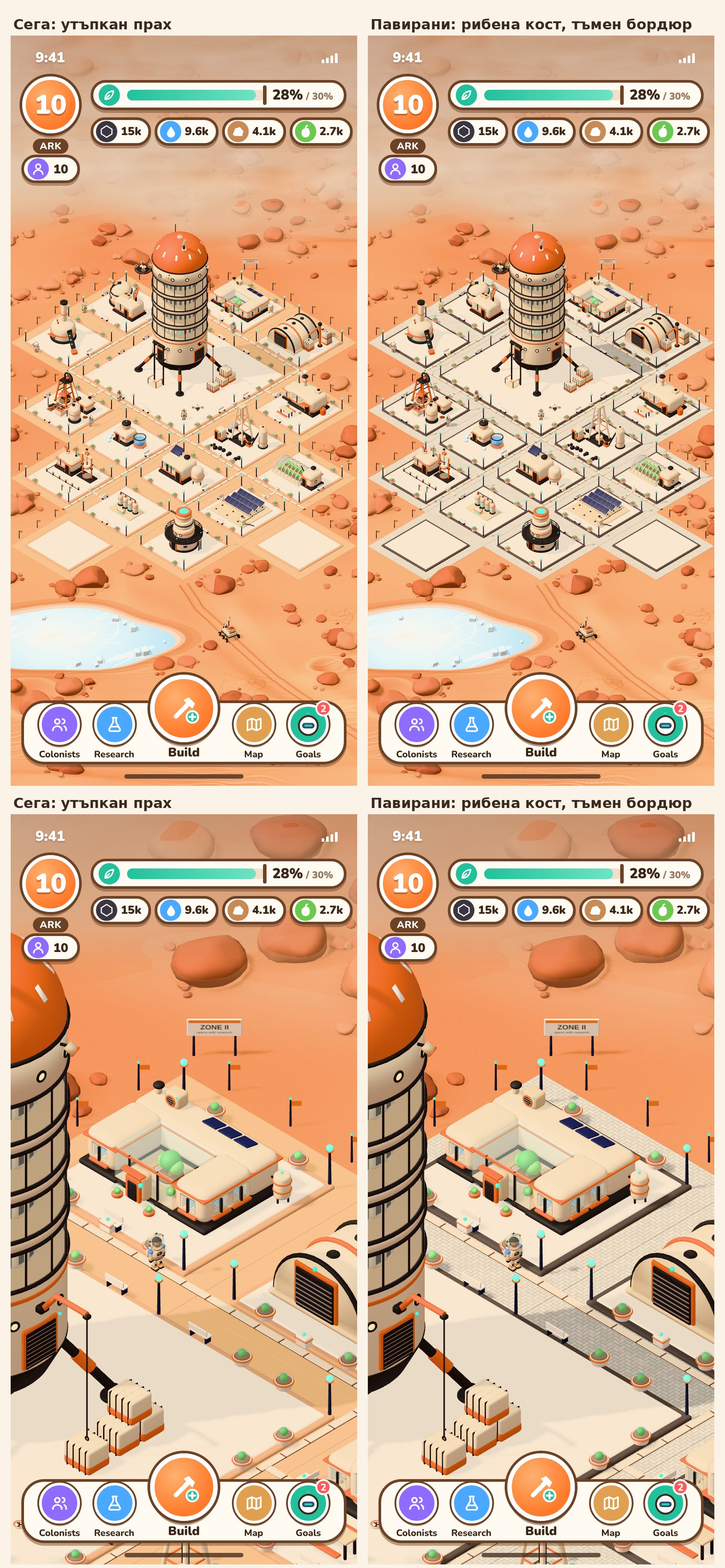
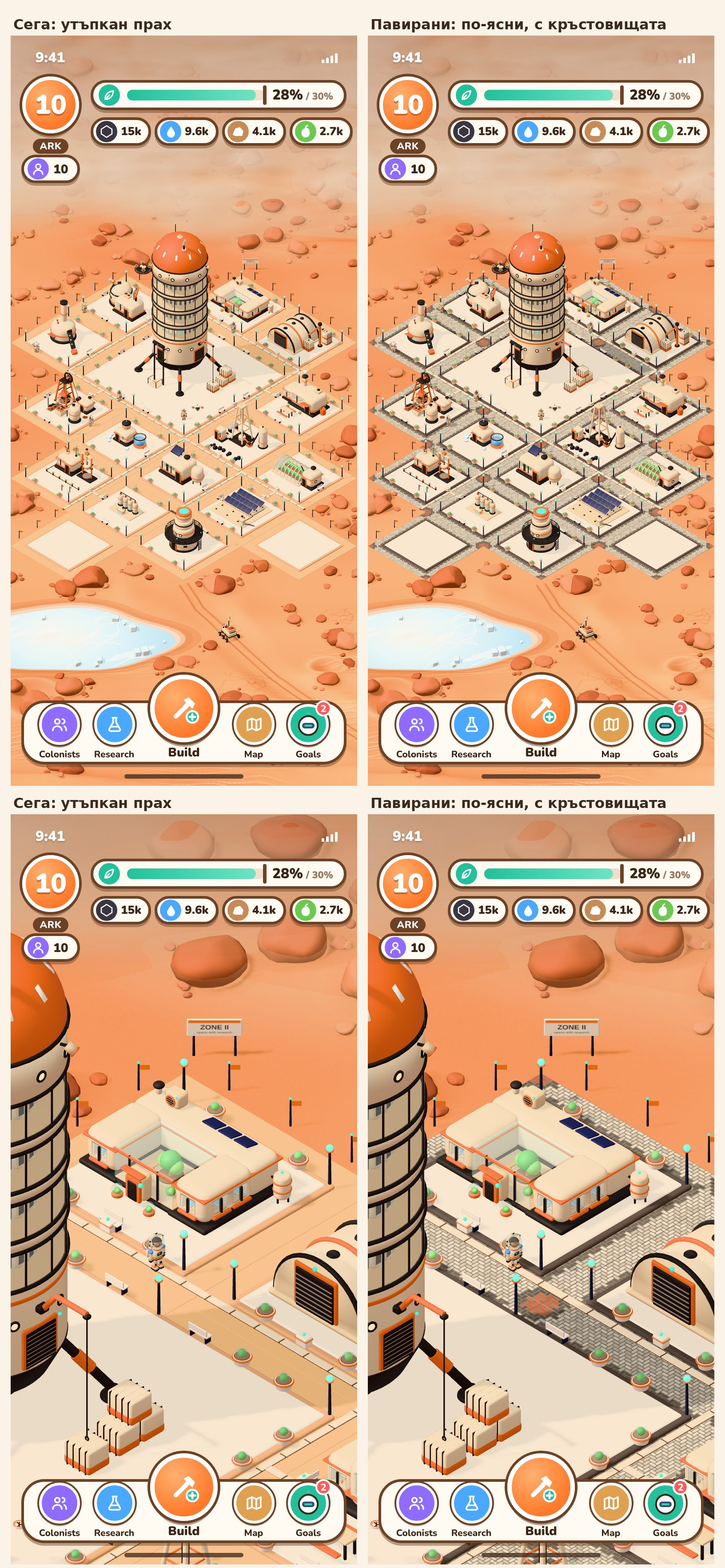
Paved streets read from far away (Joro): one texture a block with two warm greys over dark joints, a band of darker pavers along the kerb, a dark ring round brick pavers at the crossings (proposal); the before/after sheet and the frames shot again
Claude-Session: https://claude.ai/code/session_01HQgMkkwda3RCHN2yi9QPF3

diff --git a/mockup/src/map.js b/mockup/src/map.js
@@ -177,22 +177,32 @@ const ARK_PLOTS = new Set(['0,-2', '-1,-1', '1,-1', '0,0']), ARK_AT = [-8, -8], 
 // with its own little random generator, so the rocks of the map stay where they are.
 const PAVED = (location.hash || '').includes('-paved');
 function pavedMat() {
-  const c = document.createElement('canvas'); c.width = c.height = 512; const g = c.getContext('2d');
-  g.fillStyle = '#9d968a'; g.fillRect(0, 0, 512, 512);
+  // one texture for a whole block of 16 m (64 px a metre): herringbone pavers in two warm greys over dark joints, a band
+  // of darker pavers along the kerb on both sides of every street, and at the crossings (the corners of four blocks)
+  // a ring of dark pavers round a circle of brick pavers from our kiln (proposal), so the paving reads from far away
+  const S = 1024, PX = S / 16, c = document.createElement('canvas'); c.width = c.height = S; const g = c.getContext('2d');
+  g.fillStyle = '#7f786d'; g.fillRect(0, 0, S, S);
   let seed = 9; const lcg = () => ((seed = (seed * 16807) % 2147483647) / 2147483647);
-  const wd = 32, gap = 2;
-  const box = (x, y, w, h) => {
-    const t = Math.round((lcg() - 0.5) * 14);
-    g.fillStyle = `rgb(${207 + t},${200 + t},${188 + t})`;
-    for (const ox of [-512, 0, 512]) for (const oy of [-512, 0, 512]) g.fillRect(x + ox + gap, y + oy + gap, w - 2 * gap, h - 2 * gap);
+  const tone = (r, gg, b, v) => { const t = Math.round((lcg() - 0.5) * v); return `rgb(${r + t},${gg + t},${b + t})`; };
+  const wd = 16, gap = 2;
+  const col = (x, y) => {
+    const mx = (x - S / 2) / PX, my = (y - S / 2) / PX;                     // metres from the middle of the block
+    const rc = Math.hypot(Math.abs(mx) - 8, Math.abs(my) - 8);                // to the nearest crossing
+    if (rc < 1.0) return tone(178, 96, 70, 16);                              // brick pavers in the middle of the crossing
+    if (rc < 1.55) return tone(96, 89, 80, 10);                              // the dark ring round it
+    const cheb = Math.max(Math.abs(mx), Math.abs(my));
+    if (cheb > 6.15 && cheb < 6.75) return tone(104, 97, 88, 10);            // the band along the kerb
+    if (cheb > 9.25) return tone(104, 97, 88, 10);                           // (the next block's band)
+    return lcg() < 0.5 ? tone(205, 197, 183, 10) : tone(184, 176, 162, 10);   // the field: two warm greys
   };
-  for (let i = -24; i <= 24; i++) for (let j = -12; j <= 12; j++) {
+  for (let i = -80; i <= 80; i++) for (let j = -40; j <= 40; j++) {
     const bx = (i + 2 * j) * wd, by = (i - 2 * j) * wd;
-    if (bx < -64 || bx > 576 || by < -64 || by > 576) continue;
-    box(bx, by, 2 * wd, wd); box(bx, by + wd, wd, 2 * wd);
+    if (bx < -48 || bx > S + 16 || by < -48 || by > S + 16) continue;
+    for (const [x, y, w, h] of [[bx, by, 2 * wd, wd], [bx, by + wd, wd, 2 * wd]]) {
+      g.fillStyle = col(x + w / 2, y + h / 2); g.fillRect(x + gap, y + gap, w - 2 * gap, h - 2 * gap);
+    }
   }
-  const t = new THREE.CanvasTexture(c); t.wrapS = t.wrapT = THREE.RepeatWrapping; t.repeat.set(4, 4);
-  t.colorSpace = THREE.SRGBColorSpace; t.anisotropy = 8;
+  const t = new THREE.CanvasTexture(c); t.colorSpace = THREE.SRGBColorSpace; t.anisotropy = 8;
   return new THREE.MeshStandardMaterial({ map: t, roughness: 0.85, metalness: 0 });
 }
 const padMat = flat(C.pad), edgeMat = flat(PAVED ? 0x5a4f49 : C.padEdge), roadMat = PAVED ? pavedMat() : flat(LOOK.road);
